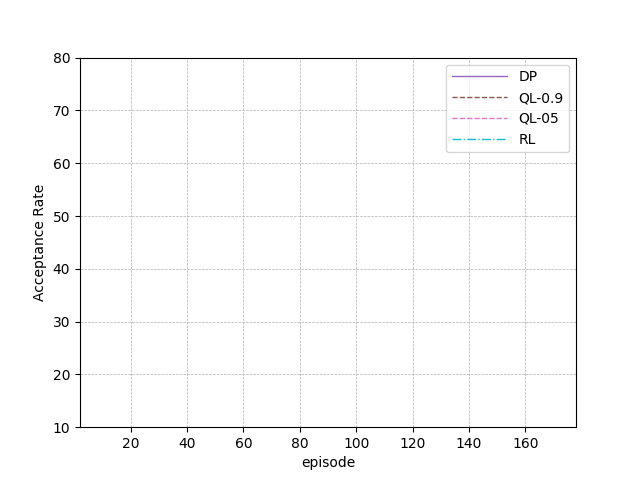
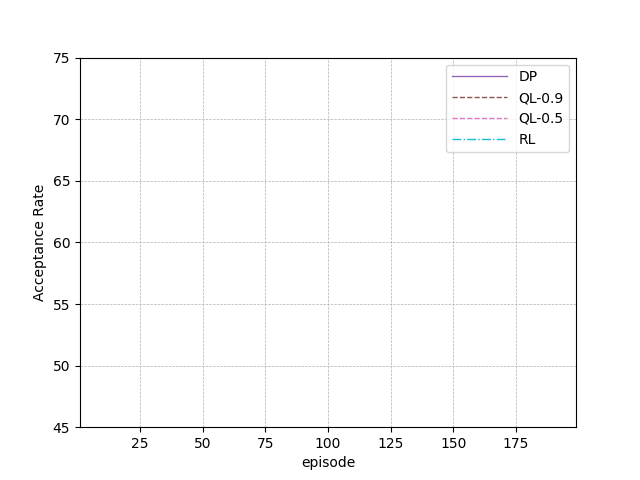
episode results updated

diff --git a/Single-Provider-Federation/quota-rejection/gap_plotter_gr_dp_2ql_rl.py b/Single-Provider-Federation/quota-rejection/gap_plotter_gr_dp_2ql_rl.py
@@ -18,6 +18,12 @@ x_label = res["x_label"]
 results = res["results"]
 
 x = []
+greedy_000 = []
+greedy_050 = []
+greedy_100 = []
+DP_05 = []
+DP_30 = []
+DP_60 = []
 DP_95 = []
 QL_09  = []
 QL_05  = []
@@ -26,33 +32,56 @@ RL  = []
 gap = lambda a, b : (a - b) / a
 for data in results:
     x.append(data["x"])
+    greedy_000_tmp = data["greedy000"]
+    greedy_050_tmp = data["greedy050"]
+    greedy_100_tmp = data["greedy100"]
+    DP_05_tmp = data["DP_05"]
+    DP_30_tmp = data["DP_30"]
+    DP_60_tmp = data["DP_60"]
     DP_95_tmp = data["DP_95"]
     QL_09_tmp = data["QL_09"]
     QL_05_tmp = data["QL_05"]
     RL_tmp = data["RL"]
     
+    greedy_000_tmp = gap(DP_95_tmp, greedy_000_tmp)
+    greedy_050_tmp = gap(DP_95_tmp, greedy_050_tmp)
+    greedy_100_tmp = gap(DP_95_tmp, greedy_100_tmp)
     QL_09_tmp = gap(DP_95_tmp, QL_09_tmp)
     QL_05_tmp = gap(DP_95_tmp, QL_05_tmp)
     RL_tmp = gap(DP_95_tmp, RL_tmp)
+    DP_05_tmp = gap(DP_95_tmp, DP_05_tmp)
+    DP_30_tmp = gap(DP_95_tmp, DP_30_tmp)
+    DP_60_tmp = gap(DP_95_tmp, DP_60_tmp)
     DP_95_tmp = gap(DP_95_tmp, DP_95_tmp)
 
+    greedy_000.append(greedy_000_tmp)
+    greedy_050.append(greedy_050_tmp)
+    greedy_100.append(greedy_100_tmp)
+    DP_05.append(DP_05_tmp)
+    DP_30.append(DP_30_tmp)
+    DP_60.append(DP_60_tmp)
     DP_95.append(DP_95_tmp)
     QL_09.append(QL_09_tmp)
-    QL_05.append(QL_05_tmp)
+    QL_09.append(QL_09_tmp)
     RL.append(RL_tmp)
 
 fig, ax = plt.subplots()
 plt.grid(linestyle="--", linewidth=0.5)
 plt.ylabel("Gap")
 plt.xlabel(x_label)
-axes = plt.gca()
-axes.set_ylim([0.0,0.25])
 
+#plt.plot(x, DP_05, label='DP-0.05', color='C1', linestyle='solid', linewidth=1)
+#plt.plot(x, DP_30, label='DP-0.30', color='C2', linestyle='solid', linewidth=1)
+#plt.plot(x, DP_60, label='DP-0.60', color='C3', linestyle='solid', linewidth=1)
 plt.plot(x, DP_95, label='DP', color='C4', linestyle='solid', linewidth=1)
 
 plt.plot(x, QL_09, label='QL-0.9', color='C5', linestyle='dashed', linewidth=1)
 plt.plot(x, QL_05, label='QL-0.5', color='C6', linestyle='dashed', linewidth=1)
 plt.plot(x, RL, label='RL', color='C9', linestyle='-.', linewidth=1)
+
+#plt.plot(x, greedy_000, label='Greedy-0.0', color='C6', linestyle='dashdot', linewidth=1)
+#plt.plot(x, greedy_050, label='Greedy-0.5', color='C7', linestyle='dashdot', linewidth=1)
+plt.plot(x, greedy_100, label='Greedy', color='C8', linestyle='dashdot', linewidth=1)
 
 plt.legend(loc='best', handlelength=4)
 

diff --git a/Single-Provider-Federation/quota-rejection/res_plotter_gr_dp_2ql_rl.py b/Single-Provider-Federation/quota-rejection/res_plotter_gr_dp_2ql_rl.py
@@ -19,7 +19,12 @@ y_label = res["y_label"]
 results = res["results"]
 
 x = []
+greedy_000 = []
+greedy_050 = []
 greedy_100 = []
+DP_05 = []
+DP_30 = []
+DP_60 = []
 DP_95 = []
 QL_09  = []
 QL_05  = []
@@ -27,7 +32,12 @@ RL  = []
 
 for data in results:
     x.append(data["x"])
+    greedy_000.append(data["greedy000"])
+    greedy_050.append(data["greedy050"])
     greedy_100.append(data["greedy100"])
+    DP_05.append(data["DP_05"])
+    DP_30.append(data["DP_30"])
+    DP_60.append(data["DP_60"])
     DP_95.append(data["DP_95"])
     QL_09.append(data["QL_09"])
     QL_05.append(data["QL_05"])
@@ -38,15 +48,19 @@ fig, ax = plt.subplots()
 plt.grid(linestyle="--", linewidth=0.5)
 plt.xlabel(x_label)
 plt.ylabel(y_label)
-axes = plt.gca()
-axes.set_ylim([45,75])
 
-
+#plt.plot(x, DP_05, label='DP-0.05', color='C1', linestyle='solid', linewidth=1)
+#plt.plot(x, DP_30, label='DP-0.30', color='C2', linestyle='solid', linewidth=1)
+#plt.plot(x, DP_60, label='DP-0.60', color='C3', linestyle='solid', linewidth=1)
 plt.plot(x, DP_95, label='DP', color='C4', linestyle='solid', linewidth=1)
 
 plt.plot(x, QL_09, label='QL-0.9', color='C5', linestyle='dashed', linewidth=1)
-plt.plot(x, QL_05, label='QL-0.5', color='C6', linestyle='dashed', linewidth=1)
+plt.plot(x, QL_09, label='QL-0.5', color='C6', linestyle='dashed', linewidth=1)
 plt.plot(x, RL, label='RL', color='C9', linestyle='-.', linewidth=1)
+
+#plt.plot(x, greedy_000, label='Greedy-0.0', color='C6', linestyle='dashdot', linewidth=1)
+#plt.plot(x, greedy_050, label='Greedy-0.5', color='C7', linestyle='dashdot', linewidth=1)
+plt.plot(x, greedy_100, label='Greedy', color='C8', linestyle='dashdot', linewidth=1)
 
 plt.legend(loc='best', handlelength=4)
 
